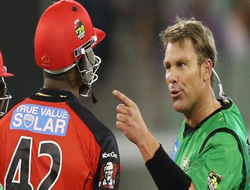
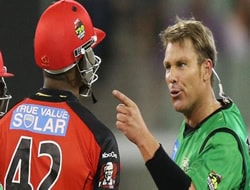
optimised images
optimised images

diff --git a/index.html b/index.html
@@ -87,9 +87,9 @@
         </footer>
     
 
-<script src="menu.js"></script>
+<script async src="menu.js"></script>
   
-      <script src="scripts.js"></script>
+      <script async src="scripts.js"></script>
 
   </body>
 </html>
